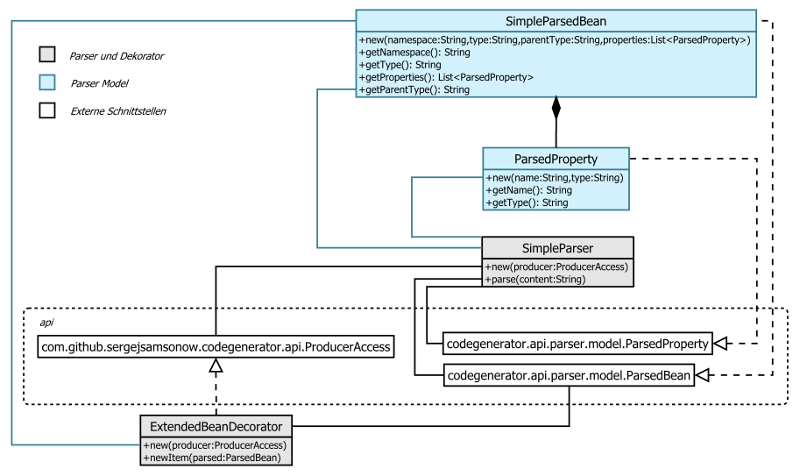
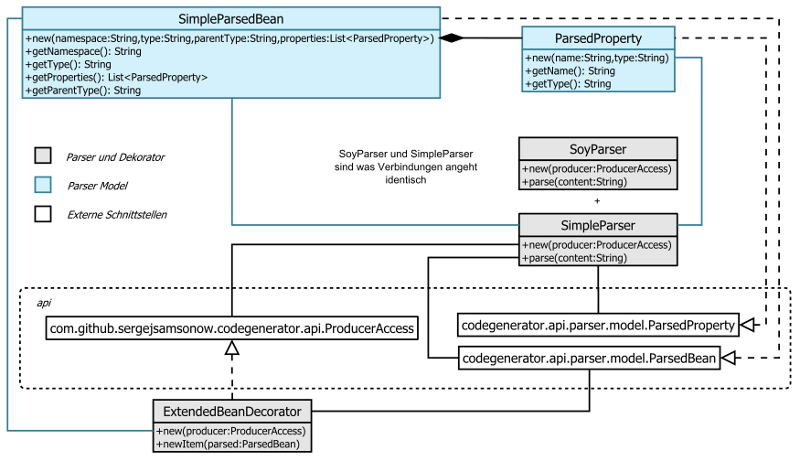
14: SoyTemplates Parser Update dias and add docs
Task-Url:
http://github.com/sergej-samsonow/code-generator/issues/issue/14

diff --git a/simple-parser/README.md b/simple-parser/README.md
@@ -1,10 +1,41 @@
-Simple Parser Übersicht
-=======================
+Parser Komponents
+=================
+
+Klassenübersicht
+![Überblick](src/site/resources/parser.png)
+
+##### SimpleParser
 Einfaches Parser Beispiel parst Daten in ein Metamodel welches von den Producer 
 weiterverarbeitet wird. Beispiel Eingabe Datei für diesen Parser kann man [hier][1] 
-anschauen. Es folgt nun die Klassen Übersicht.
+anschauen.
 
-![Überblick](src/site/resources/parser.png)
+##### SoyParser
+Parser für Extraktion von Informationen aus Google Closure Templates Dateien.
+```
+    {namespace page}
+
+    /**
+     * Soy Documentation for Template.
+     * @param message 
+     * 
+     * Bean : Person extends Entry
+     * @param age  : Integer
+     * @param name : String
+     */
+```
+Damit Parser funktionieren kann muss ein Marker ``Bean : `` in Template 
+Beschreibung enthalten sein in oberen Beispiel werden folgene Informationen
+extrahiert:
+
+1. Namespace page
+2. Metatype Person welches von Entry abgeleitet wird beide liegen in Namespace page
+3. Person Integer Property age
+4. Person Integer Property name
+
+Parameter message wird nicht als Teil des Metatype angesehen es werden nur 
+Informationen nach dem Marker ``Bean : `` ausgewertet.
+
+
 
 ## ExtendedBeanDecorator
 Ab und an muss man die von code-generator erstellten Klassen weitere Business 
